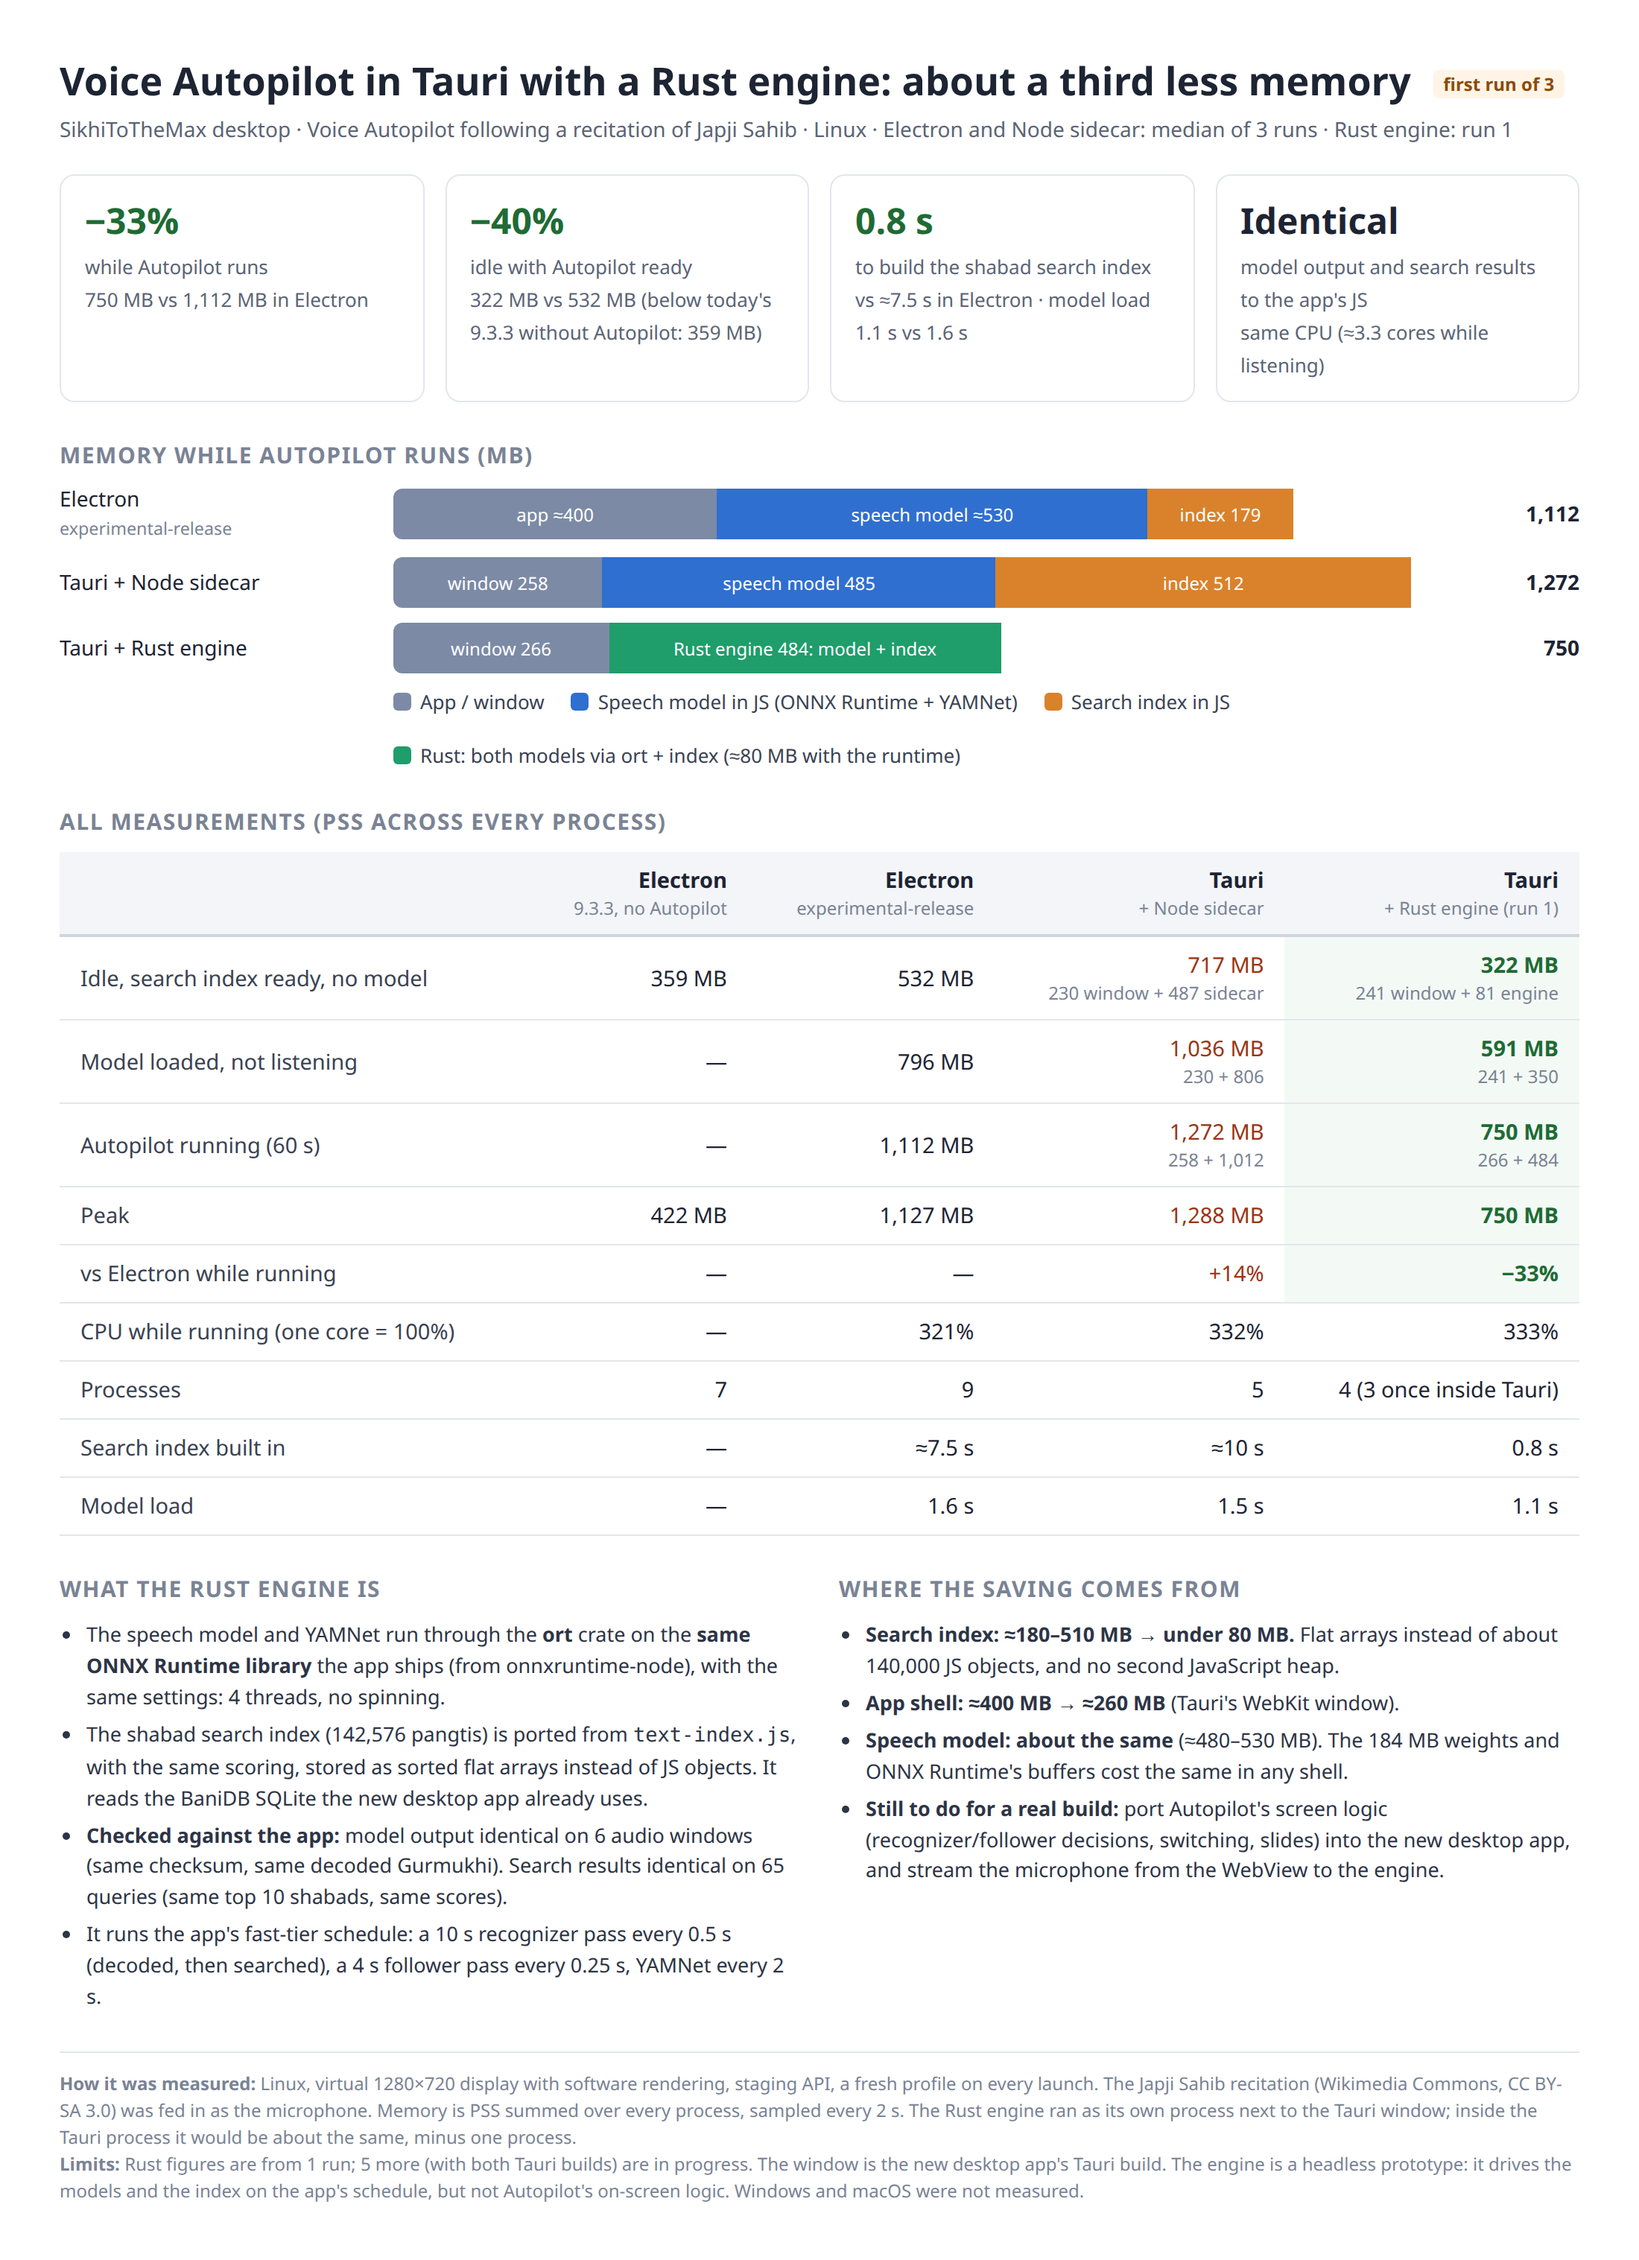
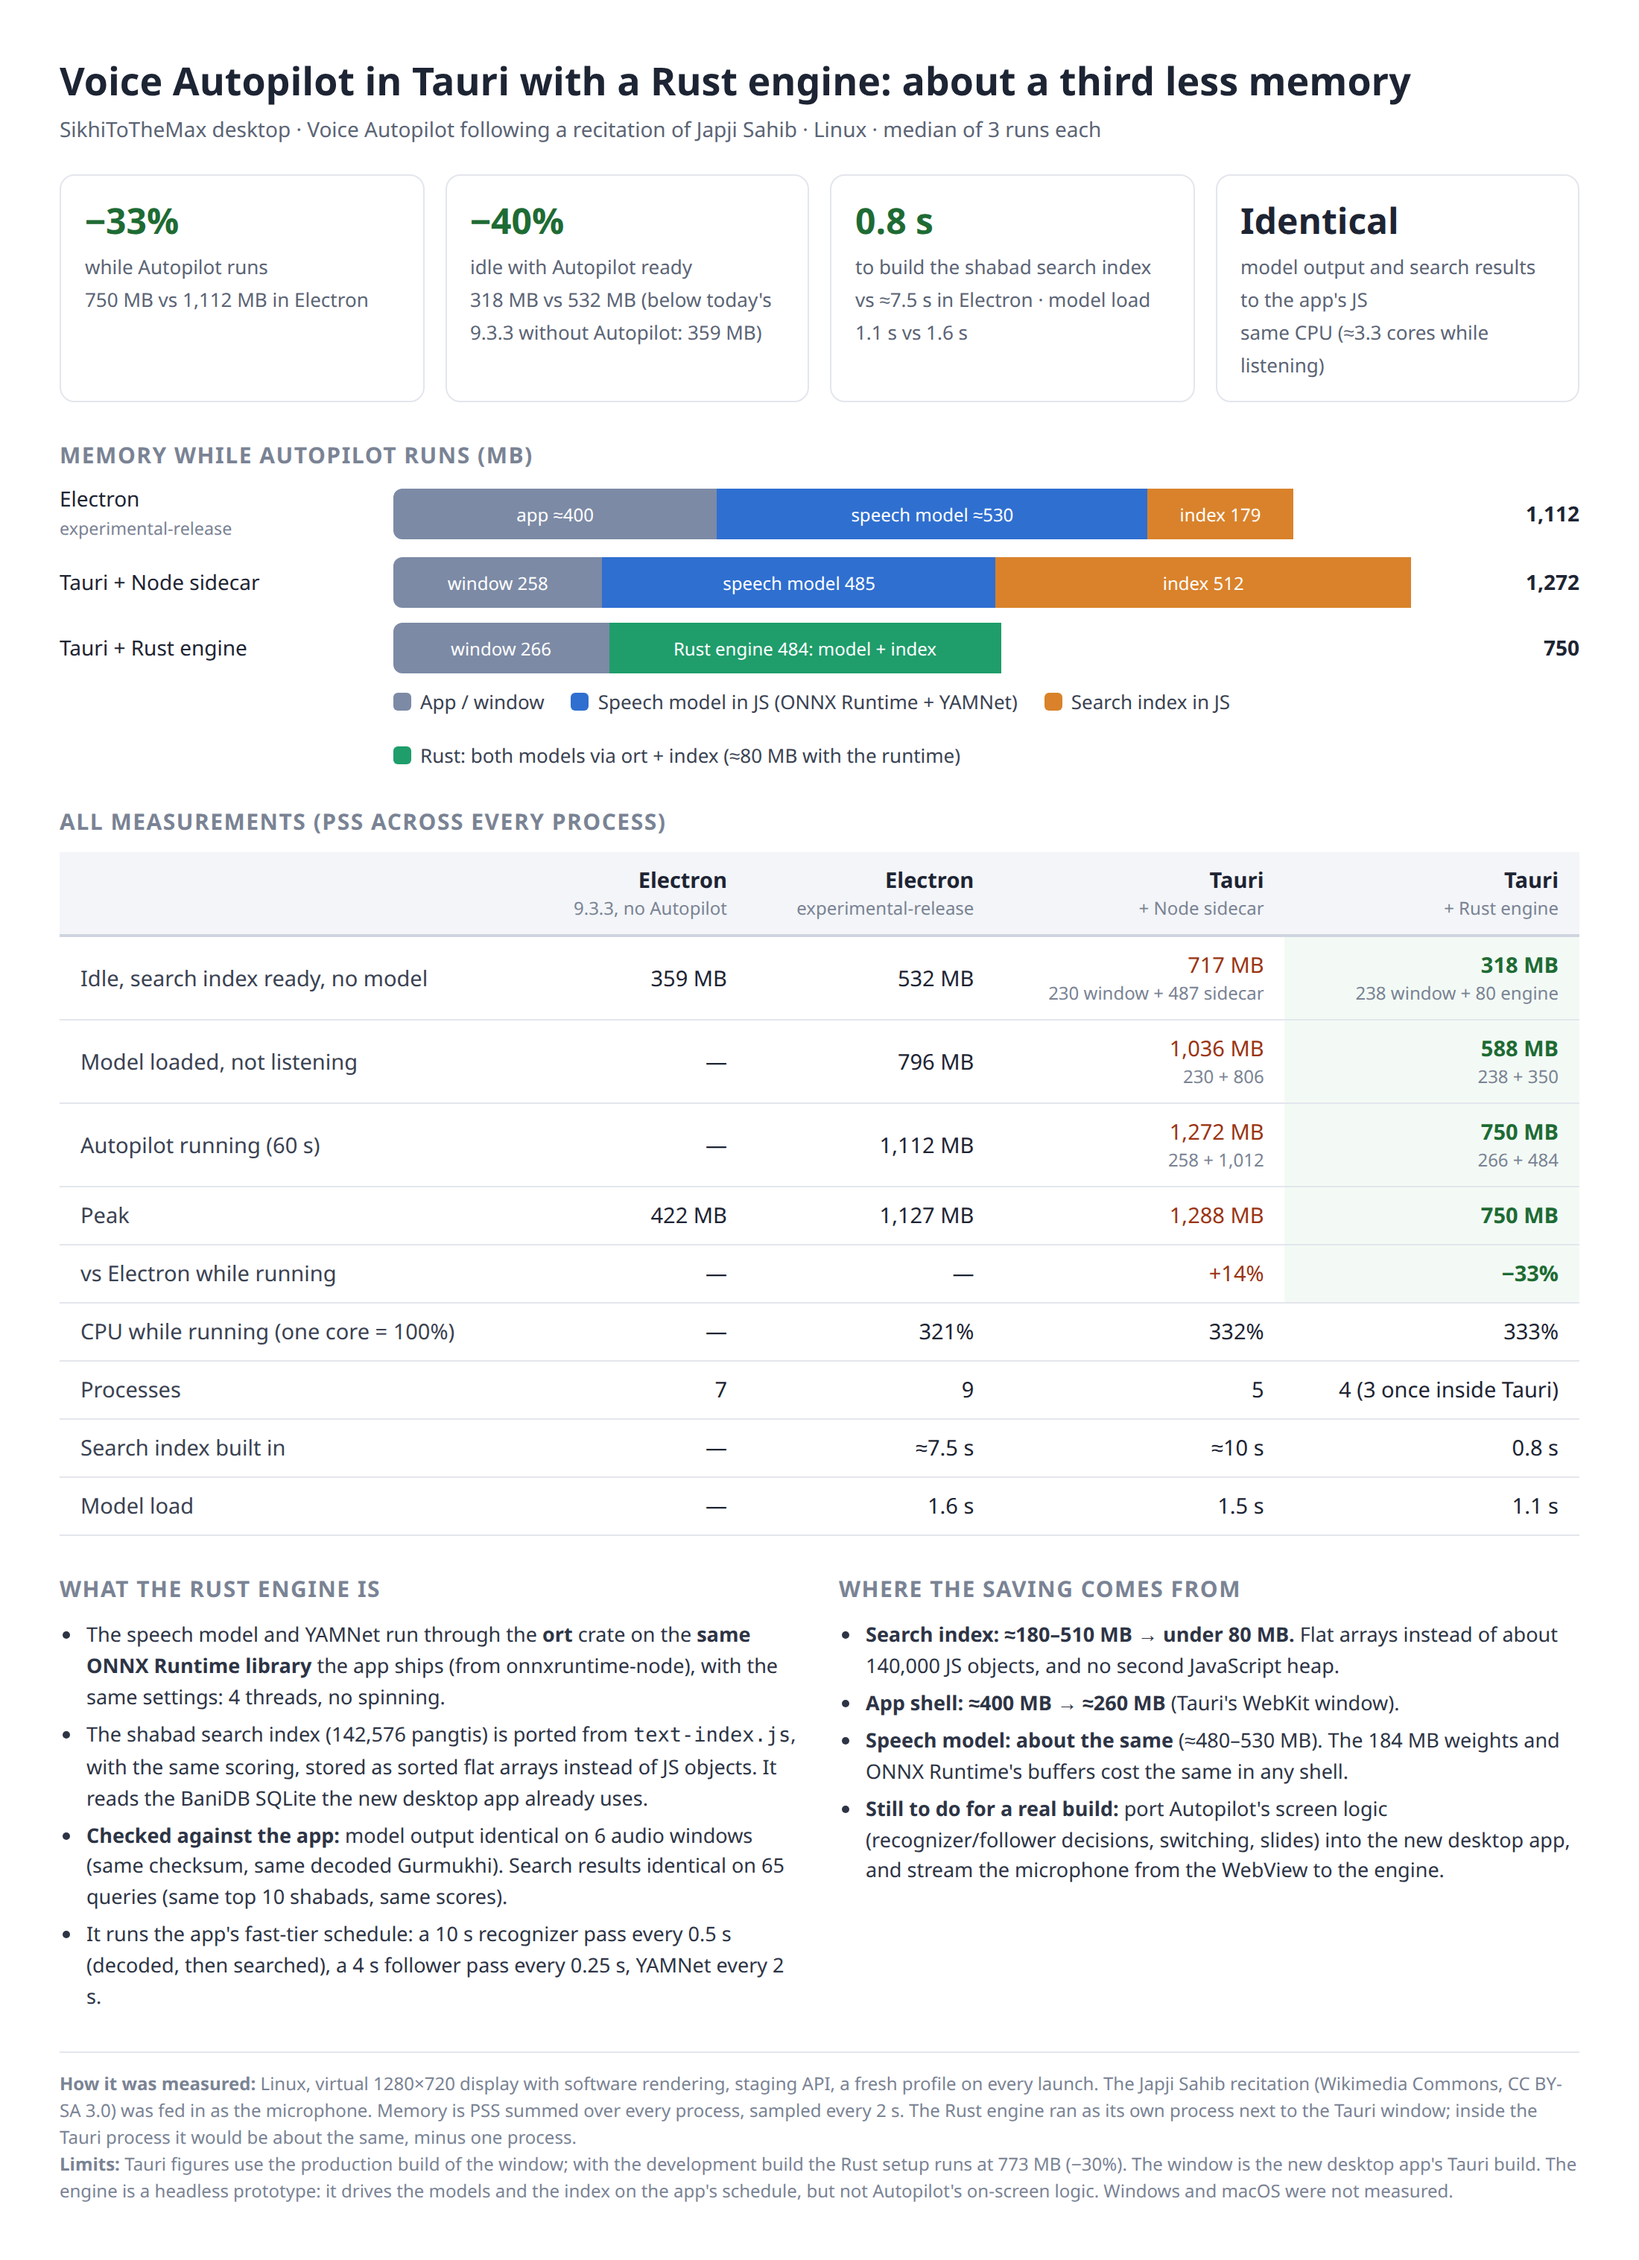
experiment: Rust engine memory, median of 3 runs

diff --git a/tauri/AUTOPILOT-RAM.md b/tauri/AUTOPILOT-RAM.md
@@ -102,12 +102,12 @@ The files:
 - Model output is identical on 6 windows (4 s and 10 s at 20, 60 and 150 s), with the same checksum and the same decoded text (`autopilot-rs decode` vs `Infer.run`).
 - Search results are identical on 65 queries (60 pangti fragments, about half with matras removed, plus 5 decoded windows): the same top 10 shabads with the same scores (`autopilot-rs search` vs `TextIndex.search`).
 
-**First run**, with the Tauri production window. More runs are still in progress.
+Median of 3 runs, with the Tauri production window. The three runs read 750, 752 and 750 MB while running. With the development build of the window: idle 330, loaded 604, running 773, peak 780.
 
-| | Electron experimental-release (median) | Tauri + Node sidecar (median) | Tauri + Rust engine (run 1) |
+| | Electron experimental-release | Tauri + Node sidecar | Tauri + Rust engine |
 |---|---:|---:|---:|
-| Idle, index ready | 532 | 717 | **322** (241 window + 81 engine) |
-| Model loaded | 796 | 1,036 | **591** (241 + 350) |
+| Idle, index ready | 532 | 717 | **318** (238 window + 80 engine) |
+| Model loaded | 796 | 1,036 | **588** (238 + 350) |
 | Running, 60 s | 1,112 | 1,272 | **750** (266 + 484) |
 | Peak | 1,127 | 1,288 | **750** |
 | CPU while running | 321% | 332% | 333% |
